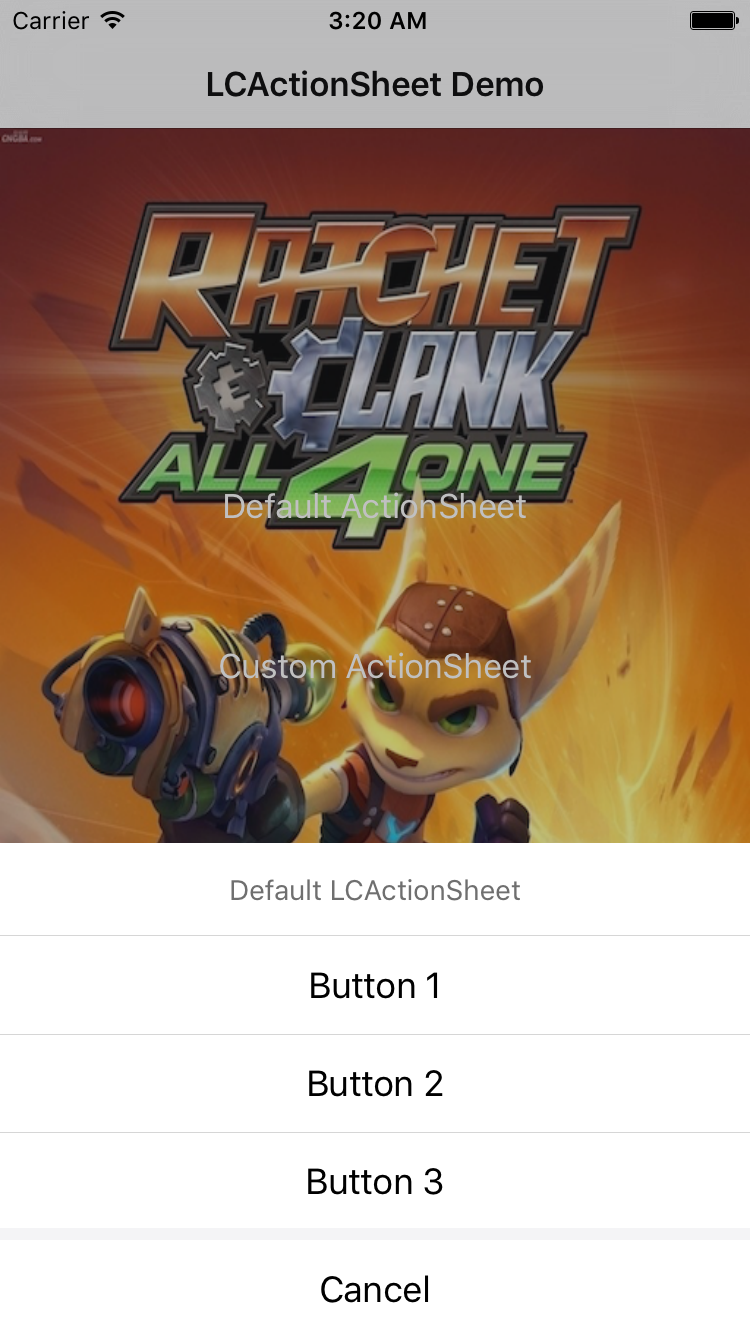
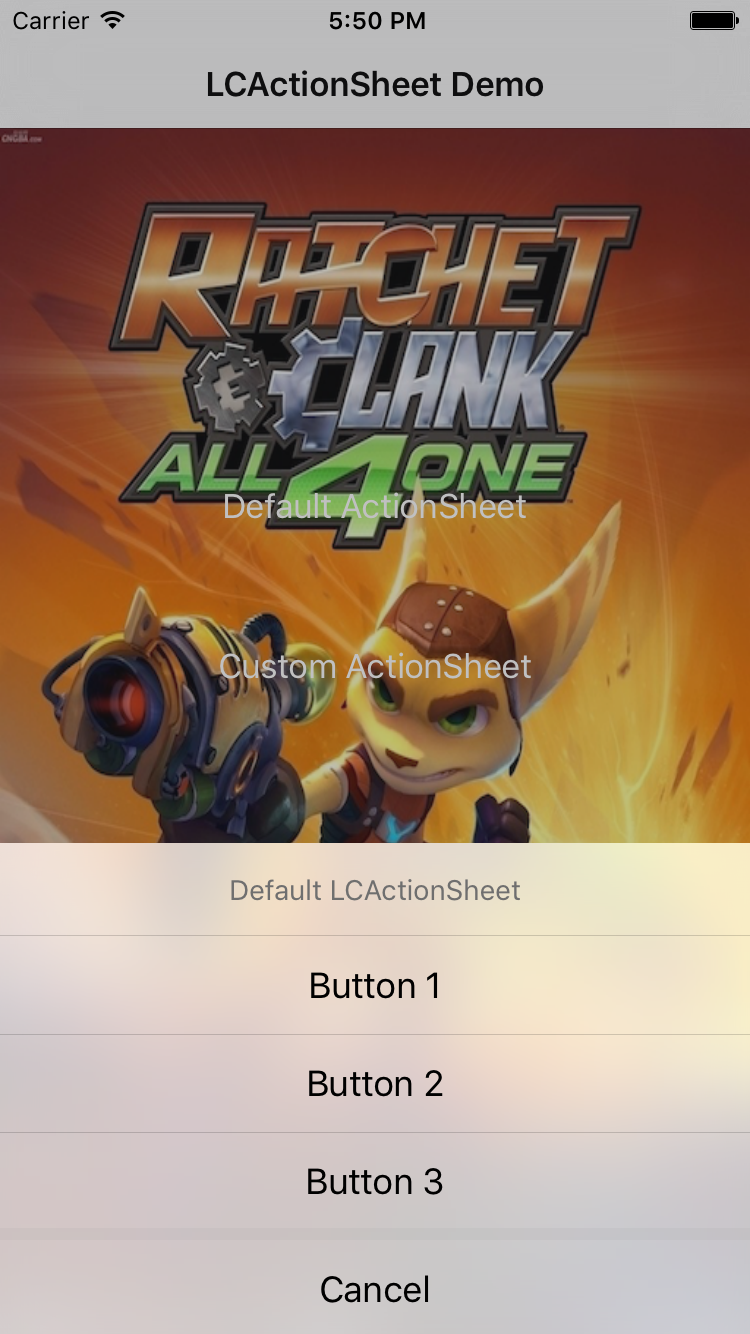
☀ V 2.2.0.

diff --git a/README.md b/README.md
@@ -159,6 +159,11 @@ In me the tiger sniffs the rose.
 
 ## 版本 Release
 
+### V 2.2.0 (2016.07.27)
+
+* 添加高斯模糊效果（可选）。
+
+
 ### V 2.1.1 (2016.07.19)
 
 * 完善部分注释，注明需要注明的属性的默认值。
